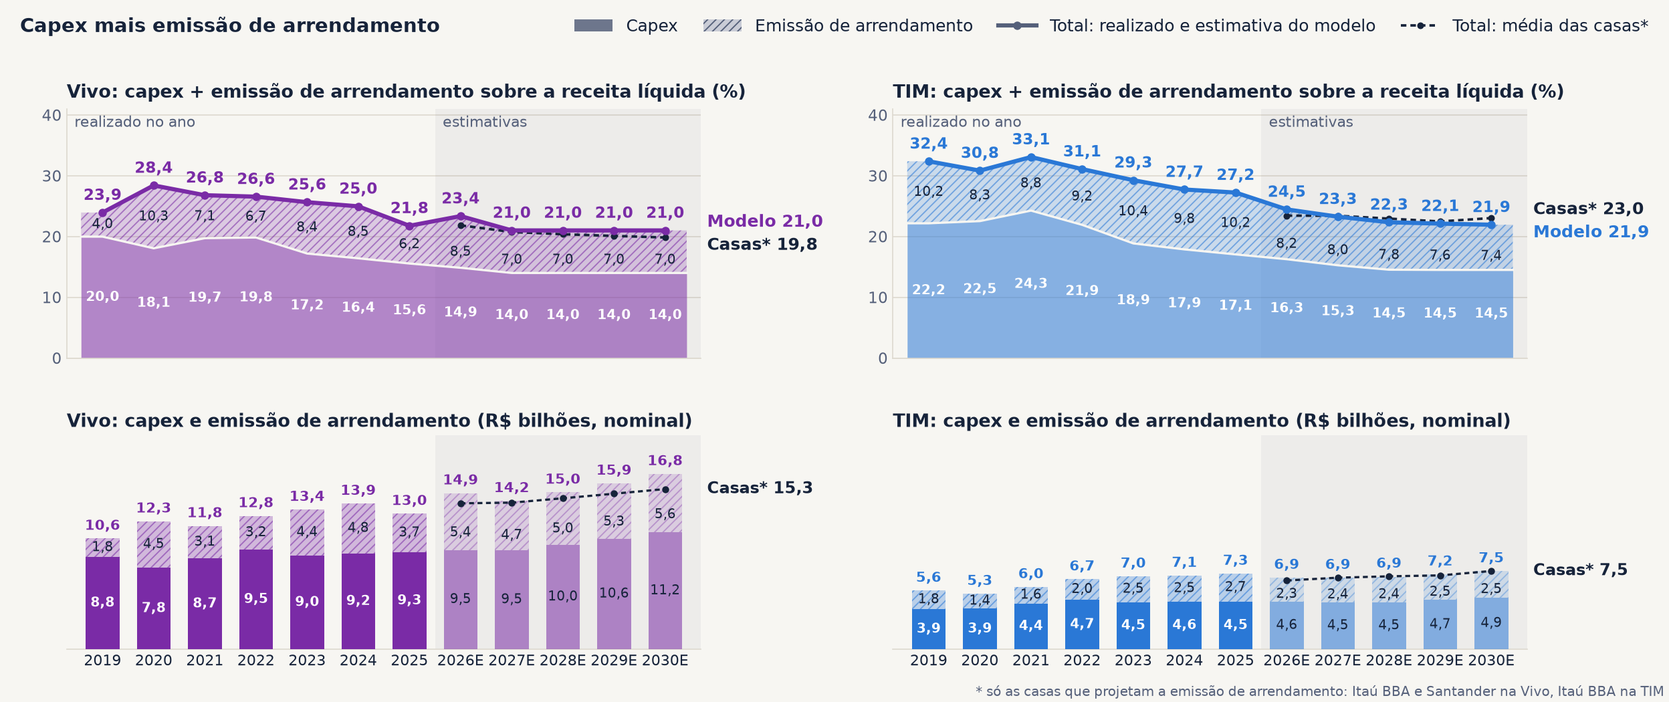
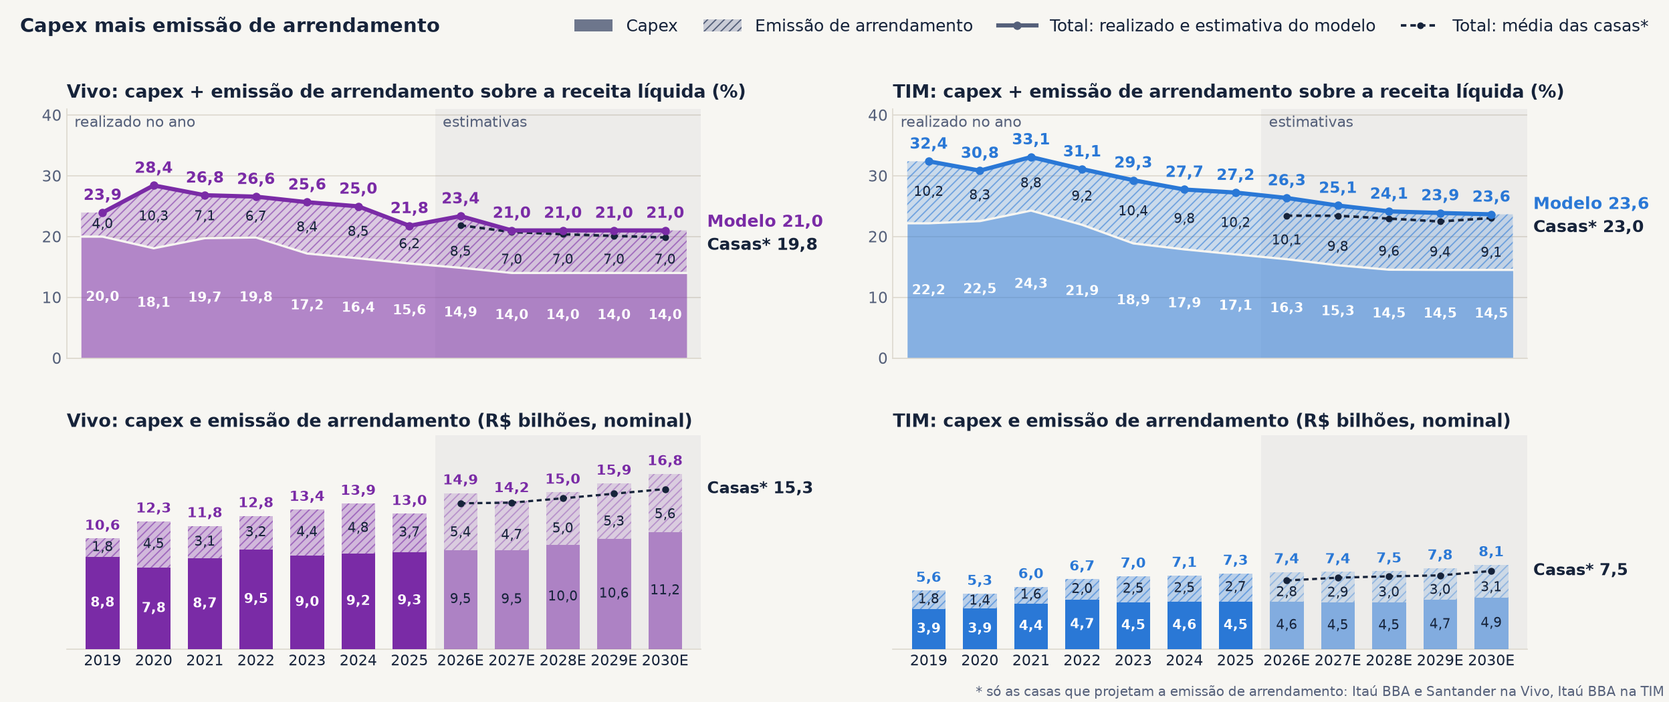
v5.6 - 24/11/2026 22:50 - slides 11 a 14 com o TimMOD v10; casas no slide 14
Emissao de arrendamento da TIM em 2026E de volta a 2,8 bi, +2,5% ao ano depois
(TimMOD v10). Slide 14 ganha as casas que projetam a emissao e a pergunta de
quanto tempo a depreciacao pode ficar acima do investimento.

Changed region(s): [[0.75, 0.2438, 1.0, 0.3657], [0.75, 0.7924, 0.9062, 0.8533]]

diff --git a/index.html b/index.html
@@ -40,7 +40,7 @@ h1, h2, h3 { font-family:'Space Grotesk', Arial, sans-serif; }
 <div id="palco">
 <section id="capa" class="capa" data-transition="fade">
 <div>
-<p class="chip">v5.5 · 24/11/2026 22:40</p>
+<p class="chip">v5.6 · 24/11/2026 22:50</p>
 </div>
 <div>
 <h1>Telecom Brasil: Vivo e TIM</h1>
@@ -113,31 +113,31 @@ h1, h2, h3 { font-family:'Space Grotesk', Arial, sans-serif; }
 </section>
 <section id="capex-emis" data-transition="fade">
 <p class="olho">4 · CAPEX MAIS EMISSÃO DE ARRENDAMENTO: MODELO CONTRA AS CASAS</p>
-<h2 class="titulo">Com a emissão de arrendamento, o investimento é 21,8% da receita na Vivo e 27,2% na TIM em 2025; o modelo vai a 21,0% e 21,9%, perto das casas</h2>
+<h2 class="titulo">Com a emissão de arrendamento, o investimento é 21,8% da receita na Vivo e 27,2% na TIM em 2025; o modelo vai a 21,0% e 23,6%, perto das casas</h2>
 <img class="graf" src="img/v7b_capex_emissao.png" alt="Quatro gráficos de 2019 a 2030 estimado, Vivo e TIM na mesma escala. Em cima, capex e emissão de arrendamento sobre a receita líquida, empilhados, com a linha do total, a estimativa do modelo e a média das casas que projetam a emissão. Embaixo, capex e emissão de arrendamento em bilhões de reais nominais, em barras empilhadas, com o total em cima de cada barra e a média das mesmas casas">
 <p class="fonte">Fonte: planilhas de RI e modelos de 24/11/2026. Capex sem licenças; emissão = adições de arrendamento do ano (IFRS 16, desde 2019). Casas*: só as que projetam a emissão (Itaú BBA e Santander na Vivo, Itaú BBA na TIM).</p>
-<aside>Capex mais emissão de arrendamento sobre a receita. Vivo: 23,9% em 2019, 28,4% em 2020, 26,8% em 2021, 26,6% em 2022, 25,6% em 2023, 25,0% em 2024 e 21,8% em 2025; a emissão sozinha foi 4,0%, 10,3%, 7,1%, 6,7%, 8,4%, 8,5% e 6,2% da receita, e 9,2% nos 12 meses até o 3T26. Em reais: de R$ 10,6 bilhões em 2019 para R$ 13,9 bilhões em 2024 e R$ 13,0 bilhões em 2025, com a emissão indo de R$ 1,8 bilhão para R$ 4,8 bilhões e R$ 3,7 bilhões. Premissa de 24/11/2026: em 2026E a emissão fica em R$ 5,4 bilhões, 8,5% da receita (os nove meses somam R$ 3,65 bilhões, com R$ 2,4 bilhões no 3T26, e o 4T26 entra com R$ 1,8 bilhão; os três últimos quartos trimestres foram de cerca de R$ 2,2 bilhões cada), e cai para 7,0% da receita de 2027E em diante (antes 8,5%). Total de 23,4% em 2026E e 21,0% de 2027E a 2030E; em reais, R$ 14,9 bilhões em 2026E, R$ 14,2 bilhões em 2027E e R$ 16,8 bilhões em 2030E. As duas casas que projetam a emissão (Itaú BBA e Santander) ficam em 21,8%, 20,7%, 20,4%, 20,1% e 19,8% na média, com emissão perto de 6% da receita e total de R$ 15,3 bilhões em 2030E; o modelo fica 1,2 ponto e R$ 1,5 bilhão acima em 2030E. TIM: 32,4% em 2019, 30,8% em 2020, 33,1% em 2021, 31,1% em 2022, 29,3% em 2023, 27,7% em 2024 e 27,2% em 2025; a emissão foi 10,2%, 8,3%, 8,8%, 9,2%, 10,4%, 9,8% e 10,2% da receita. Em reais: de R$ 5,6 bilhões em 2019 para R$ 7,3 bilhões em 2025, com a emissão indo de R$ 1,8 bilhão para R$ 2,7 bilhões. Premissa nova de 24/11/2026: emissão de R$ 2,3 bilhões em 2026E (os nove meses somam R$ 1,66 bilhão; 4T26 de R$ 0,64 bilhão, igual ao 4T25) e crescimento de 2,5% ao ano depois, metade do ritmo da receita (antes crescia com a receita móvel). A emissão cai de 10,2% da receita em 2025 para 8,2% em 2026E e 7,4% em 2030E; total de 24,5% em 2026E, 23,3% em 2027E e 21,9% em 2030E, com R$ 6,9 bilhões parados de 2026E a 2028E e R$ 7,5 bilhões em 2030E. O Itaú BBA, única casa que projeta a emissão da TIM, fica em 23,4%, 23,4%, 22,9%, 22,5% e 23,0%, com emissão de 7,5% da receita e total de R$ 7,5 bilhões em 2030E; o modelo fica 1,1 ponto abaixo em 2030E (capex 1,1 ponto menor, emissão igual) e igual em reais, porque a receita do modelo é maior. Leitura: de 2019 a 2025 o capex sobre a receita caiu 4,4 pontos na Vivo e 5,1 na TIM, mas o total com arrendamento caiu 2,1 e 5,2 pontos; na Vivo, metade da queda do capex foi trocada por arrendamento, e nos 12 meses até o 3T26 o total (24,4%) está acima de 2019. A emissão é volátil de um ano para o outro, mistura contrato novo com renovação e reajuste e não pega contrato de serviço; vale mais a média de alguns anos que o ano isolado (Vivo 2021 a 2025: 7,4% da receita; TIM: 9,7%).</aside>
+<aside>Capex mais emissão de arrendamento sobre a receita. Vivo: 23,9% em 2019, 28,4% em 2020, 26,8% em 2021, 26,6% em 2022, 25,6% em 2023, 25,0% em 2024 e 21,8% em 2025; a emissão sozinha foi 4,0%, 10,3%, 7,1%, 6,7%, 8,4%, 8,5% e 6,2% da receita, e 9,2% nos 12 meses até o 3T26. Em reais: de R$ 10,6 bilhões em 2019 para R$ 13,9 bilhões em 2024 e R$ 13,0 bilhões em 2025, com a emissão indo de R$ 1,8 bilhão para R$ 4,8 bilhões e R$ 3,7 bilhões. Premissa de 24/11/2026: em 2026E a emissão fica em R$ 5,4 bilhões, 8,5% da receita (os nove meses somam R$ 3,65 bilhões, com R$ 2,4 bilhões no 3T26, e o 4T26 entra com R$ 1,8 bilhão; os três últimos quartos trimestres foram de cerca de R$ 2,2 bilhões cada), e cai para 7,0% da receita de 2027E em diante (antes 8,5%). Total de 23,4% em 2026E e 21,0% de 2027E a 2030E; em reais, R$ 14,9 bilhões em 2026E, R$ 14,2 bilhões em 2027E e R$ 16,8 bilhões em 2030E. As duas casas que projetam a emissão (Itaú BBA e Santander) ficam em 21,8%, 20,7%, 20,4%, 20,1% e 19,8% na média, com emissão perto de 6% da receita e total de R$ 15,3 bilhões em 2030E; o modelo fica 1,2 ponto e R$ 1,5 bilhão acima em 2030E. TIM: 32,4% em 2019, 30,8% em 2020, 33,1% em 2021, 31,1% em 2022, 29,3% em 2023, 27,7% em 2024 e 27,2% em 2025; a emissão foi 10,2%, 8,3%, 8,8%, 9,2%, 10,4%, 9,8% e 10,2% da receita. Em reais: de R$ 5,6 bilhões em 2019 para R$ 7,3 bilhões em 2025, com a emissão indo de R$ 1,8 bilhão para R$ 2,7 bilhões. Premissa de 24/11/2026: emissão de R$ 2,8 bilhões em 2026E, 10,1% da receita (os nove meses somam R$ 1,66 bilhão e o 4T26 entra com R$ 1,17 bilhão, acima dos R$ 0,4 a 0,7 bilhão dos três últimos quartos trimestres), e crescimento de 2,5% ao ano depois, metade do ritmo da receita (antes crescia com a receita móvel). A emissão cai de 10,1% da receita em 2026E para 9,8% em 2027E e 9,1% em 2030E; total de 26,3% em 2026E, 25,1% em 2027E e 23,6% em 2030E, de R$ 7,4 bilhões para R$ 8,1 bilhões. O Itaú BBA, única casa que projeta a emissão da TIM, fica em 23,4%, 23,4%, 22,9%, 22,5% e 23,0%, com emissão de 7,5% da receita e total de R$ 7,5 bilhões em 2030E; o modelo fica 0,6 ponto acima em 2030E (capex 1,1 ponto menor, emissão 1,6 ponto maior) e R$ 0,6 bilhão acima em reais. Leitura: de 2019 a 2025 o capex sobre a receita caiu 4,4 pontos na Vivo e 5,1 na TIM, mas o total com arrendamento caiu 2,1 e 5,2 pontos; na Vivo, metade da queda do capex foi trocada por arrendamento, e nos 12 meses até o 3T26 o total (24,4%) está acima de 2019. A emissão é volátil de um ano para o outro, mistura contrato novo com renovação e reajuste e não pega contrato de serviço; vale mais a média de alguns anos que o ano isolado (Vivo 2021 a 2025: 7,4% da receita; TIM: 9,7%).</aside>
 </section>
 <section id="pares-qualidade" data-transition="fade">
 <p class="olho">4 · INVESTIMENTO CONTRA OS PARES DE FORA E QUALIDADE DA REDE NO BRASIL</p>
 <h2 class="titulo">Vivo e TIM investem acima dos pares de fora (21,8% e 27,2% da receita contra 19,1%) e a rede melhora: 4G de 12-21 para 24-27 Mbps desde 2022</h2>
 <img class="graf" src="img/v8_pares_qualidade.png" alt="À esquerda, capex e capex mais adições de arrendamento sobre a receita no último ano fiscal de dezesseis operadoras de fora, com a mediana, contra Vivo e TIM em 2025 e na estimativa do modelo para 2030. À direita, quatro gráficos da Anatel: download 4G medido, em Mbps, e cumprimento da velocidade contratada, em percentual, de 2022 a 2026 para Vivo, TIM e Claro; tráfego de dados do setor em bilhões de GB de 2019 a 2025 e no primeiro semestre de 2025 e de 2026; e a nota de qualidade de 2025 das três operadoras">
 <p class="fonte">Fonte: relatórios das companhias (levantamento de 18/11/2026, último ano fiscal), dados abertos da Anatel e modelos de 24/11/2026. Download 4G e cumprimento de velocidade: resultado dos municípios ponderado pelos acessos.</p>
-<aside>Pares de fora, capex sem espectro e capex mais adições de arrendamento sobre a receita, 2025 ou último ano fiscal: América Móvil 12,1% e 13,8%; Verizon 12,3% e 15,7%; T-Mobile US 11,3% e 15,8%; China Mobile 14,4% e 17,7%; Orange 15,4% e 17,9%; Deutsche Telekom (grupo, com os Estados Unidos) 14,2% e 18,0%; TIM Itália sem a rede fixa 13,9% e 18,2%; Telenor 13,8% e 18,7%; Telefónica 12,4% e 19,4%; Telstra 16,3% e 19,6%; A1 14,0% e 19,7%; AT&amp;T 16,6% e 21,0%; Rogers 17,1% e 21,1%; KPN 21,7% e 22,4%; Vodafone 18,0% e 27,5%; Bharti Airtel 22,5% e 28,2%. Mediana de 14,3% no capex e 19,1% no total. Brasil: Vivo 15,6% e 21,8% em 2025; TIM 17,1% e 27,2%. O capex fica 1 a 3 pontos acima da mediana; o que afasta o Brasil é o arrendamento, 6% a 10% da receita contra 3% a 7% lá fora. Modelo em 2030E: Vivo 14,0% e 21,0%; TIM 14,5% e 21,9%, ou seja, 2 a 3 pontos acima da mediana de hoje, na altura de AT&amp;T e Rogers. A adição de arrendamento oscila de um ano para o outro: na média de três anos a mediana dos pares é a mesma (19,1%), a Vivo fica em 24,1% e a TIM em 28,1%. Fora da amostra: Millicom e Swisscom, com 2025 distorcido por adições fora do padrão, e a Claro, que só tem o arrendamento pago na CVM (26,3% da receita com o capex em 2025). Qualidade da rede, Anatel, 2022 a 2026 (janeiro a setembro). Download 4G medido: Vivo 15,4, 17,7, 23,0, 25,7 e 26,9 Mbps; TIM 12,3, 14,2, 16,0, 19,7 e 23,6; Claro 21,2, 19,0, 22,4, 24,1 e 26,5. Cumprimento da velocidade contratada (indicador 4 do regulamento de qualidade): Vivo de 81,7% para 88,2%; TIM de 82,5% para 89,6%; Claro de 88,5% para 91,8%; a referência do indicador mudou em 2025 e o número recua cerca de 1 ponto no 1T25 nas três. No mesmo período o capex alocado ao móvel pelo setor caiu de 17,1% para 13,9% da receita (base de indicadores econômicos da Anatel, pode incluir licenças). Estações licenciadas: Vivo de 30,2 mil para 39,2 mil, TIM de 26,9 mil para 37,2 mil, Claro de 23,0 mil para 32,9 mil. Leitura: não há sinal de perda de qualidade com o capex caindo, o que sustenta o investimento menor dos modelos. Pontos de atenção: a nota de qualidade de 2025, único ano publicado, é 93 na Claro (selo B), 90 na Vivo (B) e 86 na TIM (C), e a latência da TIM piora desde 2024 (cumprimento de 91,4% para 88,7%); a TIM é a que tem a menor nota e é onde o modelo mais corta o investimento. Tráfego de dados do setor (a Anatel não abre por operadora): 4,5 bilhões de GB em 2019, 6,5 em 2020, 7,5 em 2021, 11,8 em 2022, 13,7 em 2023, 14,4 em 2024 e 14,7 em 2025, ou seja, quase parado por três anos; no primeiro semestre de 2026 foram 8,5 bilhões contra 7,0 um ano antes (+22%), com o trimestre subindo de 3,4 bilhões no 1T25 para 4,4 no 2T26. É o número a acompanhar: a folga de rede que o slide mostra foi construída com tráfego parado. O upload do 5G cai nas três desde 2023. Não há comparação de qualidade com os pares de fora neste slide: a evidência é a tendência local. As definições de capex e de arrendamento variam entre companhias.</aside>
+<aside>Pares de fora, capex sem espectro e capex mais adições de arrendamento sobre a receita, 2025 ou último ano fiscal: América Móvil 12,1% e 13,8%; Verizon 12,3% e 15,7%; T-Mobile US 11,3% e 15,8%; China Mobile 14,4% e 17,7%; Orange 15,4% e 17,9%; Deutsche Telekom (grupo, com os Estados Unidos) 14,2% e 18,0%; TIM Itália sem a rede fixa 13,9% e 18,2%; Telenor 13,8% e 18,7%; Telefónica 12,4% e 19,4%; Telstra 16,3% e 19,6%; A1 14,0% e 19,7%; AT&amp;T 16,6% e 21,0%; Rogers 17,1% e 21,1%; KPN 21,7% e 22,4%; Vodafone 18,0% e 27,5%; Bharti Airtel 22,5% e 28,2%. Mediana de 14,3% no capex e 19,1% no total. Brasil: Vivo 15,6% e 21,8% em 2025; TIM 17,1% e 27,2%. O capex fica 1 a 3 pontos acima da mediana; o que afasta o Brasil é o arrendamento, 6% a 10% da receita contra 3% a 7% lá fora. Modelo em 2030E: Vivo 14,0% e 21,0%; TIM 14,5% e 23,6%, ou seja, 2 a 4,5 pontos acima da mediana de hoje, entre AT&amp;T e KPN. A adição de arrendamento oscila de um ano para o outro: na média de três anos a mediana dos pares é a mesma (19,1%), a Vivo fica em 24,1% e a TIM em 28,1%. Fora da amostra: Millicom e Swisscom, com 2025 distorcido por adições fora do padrão, e a Claro, que só tem o arrendamento pago na CVM (26,3% da receita com o capex em 2025). Qualidade da rede, Anatel, 2022 a 2026 (janeiro a setembro). Download 4G medido: Vivo 15,4, 17,7, 23,0, 25,7 e 26,9 Mbps; TIM 12,3, 14,2, 16,0, 19,7 e 23,6; Claro 21,2, 19,0, 22,4, 24,1 e 26,5. Cumprimento da velocidade contratada (indicador 4 do regulamento de qualidade): Vivo de 81,7% para 88,2%; TIM de 82,5% para 89,6%; Claro de 88,5% para 91,8%; a referência do indicador mudou em 2025 e o número recua cerca de 1 ponto no 1T25 nas três. No mesmo período o capex alocado ao móvel pelo setor caiu de 17,1% para 13,9% da receita (base de indicadores econômicos da Anatel, pode incluir licenças). Estações licenciadas: Vivo de 30,2 mil para 39,2 mil, TIM de 26,9 mil para 37,2 mil, Claro de 23,0 mil para 32,9 mil. Leitura: não há sinal de perda de qualidade com o capex caindo, o que sustenta o investimento menor dos modelos. Pontos de atenção: a nota de qualidade de 2025, único ano publicado, é 93 na Claro (selo B), 90 na Vivo (B) e 86 na TIM (C), e a latência da TIM piora desde 2024 (cumprimento de 91,4% para 88,7%); a TIM é a que tem a menor nota e é onde o modelo mais corta o investimento. Tráfego de dados do setor (a Anatel não abre por operadora): 4,5 bilhões de GB em 2019, 6,5 em 2020, 7,5 em 2021, 11,8 em 2022, 13,7 em 2023, 14,4 em 2024 e 14,7 em 2025, ou seja, quase parado por três anos; no primeiro semestre de 2026 foram 8,5 bilhões contra 7,0 um ano antes (+22%), com o trimestre subindo de 3,4 bilhões no 1T25 para 4,4 no 2T26. É o número a acompanhar: a folga de rede que o slide mostra foi construída com tráfego parado. O upload do 5G cai nas três desde 2023. Não há comparação de qualidade com os pares de fora neste slide: a evidência é a tendência local. As definições de capex e de arrendamento variam entre companhias.</aside>
 </section>
 <section id="da-receita" data-transition="fade">
 <p class="olho">4 · DEPRECIAÇÃO E ARRENDAMENTO PAGO SOBRE A RECEITA</p>
-<h2 class="titulo">D&amp;A cai de 25,1% para 19,0% da receita na Vivo e de 26,6% para 18,3% na TIM até 2030E; na TIM o modelo fica 3 pontos abaixo das casas</h2>
+<h2 class="titulo">D&amp;A cai de 25,1% para 19,0% da receita na Vivo e de 26,6% para 20,0% na TIM até 2030E; na TIM o modelo fica 1,5 ponto abaixo das casas</h2>
 <img class="graf" src="img/v9_da_receita.png" alt="Dois gráficos na mesma escala, um da Vivo e um da TIM, de 2019 a 2030 estimado, com duas linhas sobre a receita líquida: a depreciação e amortização total, com a estimativa do modelo, a média e a faixa das casas, e o arrendamento pago (principal mais juros), com a estimativa do modelo">
 <p class="fonte">Fonte: planilhas de RI e modelos de 24/11/2026. D&amp;A total, com a depreciação do direito de uso e a amortização de licenças. Arrendamento pago = principal + juros. Casas: Itaú BBA, BBI, BTG, Santander e, na Vivo, UBS. UBS só até 2028E.</p>
-<aside>Depreciação e amortização total sobre a receita. Vivo: 24,7% em 2019, 26,0% em 2020, 27,3% em 2021, 26,4% em 2022, 25,7% em 2023, 25,4% em 2024 e 25,1% em 2025 (R$ 14,9 bilhões). Modelo: 23,6% em 2026E, 21,6% em 2027E, 20,5% em 2028E, 19,6% em 2029E e 19,0% em 2030E, com a D&amp;A parada perto de R$ 15 bilhões e a receita crescendo. Casas: média de 23,9%, 22,3%, 21,3%, 20,5% e 19,9%, com faixa de 18,9% a 20,5% em 2030E; o modelo fica 0,9 ponto abaixo da média em 2030E, dentro da faixa. Composição da D&amp;A da Vivo em 2025: imobilizado R$ 7,3 bilhões, direito de uso R$ 3,7 bilhões, outros intangíveis R$ 2,6 bilhões e licenças R$ 1,3 bilhão; a depreciação acelerada do cobre e dos legados (R$ 0,3 bilhão por trimestre desde o 3T24) termina em 2026. TIM: 29,5% em 2019, 32,0% em 2020, 31,5% em 2021, 31,6% em 2022, 29,8% em 2023, 27,6% em 2024 e 26,6% em 2025 (R$ 7,1 bilhões). Modelo: 25,8% em 2026E, 21,9% em 2027E, 20,4% em 2028E, 19,7% em 2029E e 18,3% em 2030E; a D&amp;A cai de R$ 7,3 bilhões em 2026E para R$ 6,5 bilhões em 2027E (-11% em um ano) e R$ 6,3 bilhões em 2030E. Casas: média de 25,5%, 24,4%, 23,3%, 22,5% e 21,5%, com faixa de 20,5% a 22,4% em 2030E; o modelo fica abaixo da casa mais baixa de 2027E em diante e 3,2 pontos abaixo da média em 2030E, cerca de R$ 1,1 bilhão de lucro antes do imposto. É a premissa a revisar no modelo da TIM. Arrendamento pago (principal mais juros) sobre a receita. Vivo: 4,5% em 2019, 7,9% em 2020, 7,4% em 2021, 8,8% em 2022, 8,1% em 2023, 8,4% em 2024 e 8,5% em 2025 (R$ 5,1 bilhões); modelo em 8,7% em 2026E, 8,9% em 2027E e 8,6% em 2030E. TIM: 9,3% em 2019, 9,8% em 2020, 11,2% em 2021, 13,4% em 2022 (torres da Oi), 12,0% em 2023, 12,9% em 2024 e 11,9% em 2025 (R$ 3,2 bilhões); modelo em 12,1% em 2026E, 13,0% em 2028E, 13,2% em 2029E e 12,7% em 2030E, mesmo com a emissão menor, porque a taxa de amortização do passivo sobe ano a ano no modelo. As duas linhas não se somam: a D&amp;A já tem a depreciação do direito de uso, que é a contrapartida contábil do principal pago, e os juros do arrendamento estão no resultado financeiro. O arrendamento pago é a medida de caixa; a D&amp;A, a de resultado.</aside>
+<aside>Depreciação e amortização total sobre a receita. Vivo: 24,7% em 2019, 26,0% em 2020, 27,3% em 2021, 26,4% em 2022, 25,7% em 2023, 25,4% em 2024 e 25,1% em 2025 (R$ 14,9 bilhões). Modelo: 23,6% em 2026E, 21,6% em 2027E, 20,5% em 2028E, 19,6% em 2029E e 19,0% em 2030E, com a D&amp;A parada perto de R$ 15 bilhões e a receita crescendo. Casas: média de 23,9%, 22,3%, 21,3%, 20,5% e 19,9%, com faixa de 18,9% a 20,5% em 2030E; o modelo fica 0,9 ponto abaixo da média em 2030E, dentro da faixa. Composição da D&amp;A da Vivo em 2025: imobilizado R$ 7,3 bilhões, direito de uso R$ 3,7 bilhões, outros intangíveis R$ 2,6 bilhões e licenças R$ 1,3 bilhão; a depreciação acelerada do cobre e dos legados (R$ 0,3 bilhão por trimestre do 3T24 ao 2T26) termina em 2026. TIM: 29,5% em 2019, 32,0% em 2020, 31,5% em 2021, 31,6% em 2022, 29,8% em 2023, 27,6% em 2024 e 26,6% em 2025 (R$ 7,1 bilhões). Modelo: 25,9% em 2026E, 23,8% em 2027E, 22,2% em 2028E, 21,4% em 2029E e 20,0% em 2030E; a D&amp;A vai de R$ 7,3 bilhões em 2026E para R$ 7,0 bilhões em 2027E e R$ 6,8 bilhões em 2030E. Casas: média de 25,5%, 24,4%, 23,3%, 22,5% e 21,5%, com faixa de 20,5% a 22,4% em 2030E; o modelo fica dentro da faixa em 2027E, no piso em 2028E e 0,5 ponto abaixo da casa mais baixa em 2030E, 1,5 ponto abaixo da média, cerca de R$ 0,5 bilhão de lucro antes do imposto. No modelo da TIM a D&amp;A é um percentual do ativo permanente, que inclui a emissão de arrendamento: com a emissão de 2026E de volta a R$ 2,8 bilhões, a D&amp;A projetada subiu. Arrendamento pago (principal mais juros) sobre a receita. Vivo: 4,5% em 2019, 7,9% em 2020, 7,4% em 2021, 8,8% em 2022, 8,1% em 2023, 8,4% em 2024 e 8,5% em 2025 (R$ 5,1 bilhões); modelo em 8,7% em 2026E, 8,9% em 2027E e 8,6% em 2030E. TIM: 9,3% em 2019, 9,8% em 2020, 11,2% em 2021, 13,4% em 2022 (torres da Oi), 12,0% em 2023, 12,9% em 2024 e 11,9% em 2025 (R$ 3,2 bilhões); modelo em 12,1% em 2026E, 13,2% em 2027E, 14,0% em 2028E, 14,6% em 2029E e 14,3% em 2030E, porque a taxa de amortização do passivo sobe ano a ano no modelo. As duas linhas não se somam: a D&amp;A já tem a depreciação do direito de uso, que é a contrapartida contábil do principal pago, e os juros do arrendamento estão no resultado financeiro. O arrendamento pago é a medida de caixa; a D&amp;A, a de resultado.</aside>
 </section>
 <section id="da-capex" data-transition="fade">
 <p class="olho">4 · INVESTIMENTO TOTAL CONTRA DEPRECIAÇÃO TOTAL</p>
-<h2 class="titulo">Investimento empata com a depreciação desde 2019: Vivo -R$ 1,7 bi em sete anos (+R$ 0,1 bi sem a depreciação acelerada do cobre) e TIM +R$ 0,5 bi</h2>
-<img class="graf" src="img/v9b_da_capex.png" alt="Quatro gráficos de 2019 a 2030 estimado, Vivo e TIM na mesma escala. Em cima, o investimento total (capex mais emissão de arrendamento) e a depreciação e amortização total sobre a receita líquida, com a área entre as linhas em verde quando o investimento é maior e em ocre quando a depreciação é maior. Embaixo, a diferença em bilhões de reais por ano, em barras, com a soma de 2019 a 2025 e de 2026 a 2030; na Vivo, losangos marcam a diferença sem a depreciação acelerada do cobre em 2024, 2025 e 2026">
-<p class="fonte">Fonte: planilhas de RI e modelos de 24/11/2026. Investimento total = capex sem licenças + emissão de arrendamento. D&amp;A total inclui a amortização de licenças (Vivo: R$ 0,9 a 1,5 bilhão por ano), o que pesa contra o investimento.</p>
-<aside>Pergunta do slide: as companhias constroem ou consomem o ativo (imobilizado mais direito de uso)? A conta compara o que entra, capex sem licenças mais emissão de arrendamento, com o que sai pela depreciação e amortização total; as duas medidas são de competência. O arrendamento pago não entra aqui: ele reduz o passivo, não o ativo, e a sua contrapartida contábil, a depreciação do direito de uso, já está na D&amp;A. Vivo, investimento menos D&amp;A em R$ bilhões: -0,3 em 2019, +1,0 em 2020, -0,2 em 2021, +0,1 em 2022, zero em 2023, -0,3 em 2024 e -2,0 em 2025, soma de -1,7 em sete anos; a relação D&amp;A sobre investimento fica entre 0,92 e 1,03 de 2019 a 2024 e vai a 1,15 em 2025, ano de emissão baixa e de depreciação acelerada do cobre. Modelo: -0,2 em 2026E, -0,4 em 2027E, +0,4 em 2028E, +1,0 em 2029E e +1,6 em 2030E, soma de +2,5. Cobre: a Vivo depreciou de forma acelerada as tecnologias legadas, incluindo os ativos de cobre, do 3T24 ao 2T26, com impacto aproximado de R$ 0,3 bilhão por trimestre (release do 2T26), ou R$ 0,6 bilhão em 2024, R$ 1,2 bilhão em 2025 e R$ 0,6 bilhão em 2026, R$ 2,4 bilhões no total. Sem isso a D&amp;A seria 24,4% da receita em 2024 (contra 25,4%), 23,1% em 2025 (contra 25,1%) e 22,7% em 2026E (contra 23,6%), e a diferença entre investimento e depreciação seria +0,3 em 2024, -0,8 em 2025 e +0,4 em 2026E; a soma de 2019 a 2025 passa de -1,7 para +0,1 e a de 2026E a 2030E de +2,5 para +3,1. O cobre explica R$ 1,2 bilhão dos R$ 2,0 bilhões de 2025; o resto é a emissão de arrendamento mais baixa do ano. TIM: +0,5 em 2019, -0,2 em 2020, +0,3 em 2021, -0,1 em 2022 e em 2023, zero em 2024 e +0,2 em 2025, soma de +0,5; relação entre 0,91 e 1,04. Modelo: -0,4 em 2026E, +0,4 em 2027E, +0,6 em 2028E, +0,8 em 2029E e +1,2 em 2030E, soma de +2,6. Leitura do realizado: empate, nem constroem nem consomem em reais nominais; com a inflação do período, a base encolhe em termos reais. No balanço da Vivo, imobilizado mais direito de uso vai de R$ 42,8 bilhões em 2019 para R$ 47,4 bilhões em 2025, alta nominal de 11% em seis anos. Leitura do modelo: as duas passam a construir ativo com o investimento caindo sobre a receita, porque a D&amp;A cai mais rápido (Vivo de 25,1% para 19,0% da receita; TIM de 26,6% para 18,3%). Na Vivo parte disso é o fim da depreciação acelerada do cobre; na TIM a D&amp;A do modelo fica abaixo de todas as casas de 2027E em diante. Ressalvas: a D&amp;A inclui a amortização de licenças e o investimento não inclui as licenças compradas; tirando a amortização de licenças da Vivo (R$ 8,4 bilhões de 2019 a 2025), a soma do período passa de -R$ 1,7 bilhão para +R$ 6,7 bilhões. A abertura equivalente da TIM não está no modelo. A emissão de arrendamento mistura contrato novo com renovação e reajuste.</aside>
+<h2 class="titulo">Investimento empata com a depreciação desde 2019 e as casas põem a D&amp;A acima do investimento até 2029: por quanto tempo dá para consumir ativo?</h2>
+<img class="graf" src="img/v9b_da_capex.png" alt="Quatro gráficos de 2019 a 2030 estimado, Vivo e TIM na mesma escala. Em cima, o investimento total (capex mais emissão de arrendamento) e a depreciação e amortização total sobre a receita líquida, com a área entre as linhas em verde quando o investimento é maior e em ocre quando a depreciação é maior. Embaixo, a diferença em bilhões de reais por ano, em barras, com a soma de 2019 a 2025 e de 2026 a 2030; na Vivo, losangos marcam a diferença sem a depreciação acelerada do cobre em 2024, 2025 e 2026; linhas finas mostram a mesma diferença nas casas que projetam a emissão de arrendamento">
+<p class="fonte">Fonte: planilhas de RI e modelos de 24/11/2026. Investimento total = capex sem licenças + emissão de arrendamento. D&amp;A total inclui a amortização de licenças. Casas: só as que projetam a emissão (Itaú BBA e Santander na Vivo, Itaú BBA na TIM).</p>
+<aside>Pergunta do slide: as companhias constroem ou consomem o ativo (imobilizado mais direito de uso), e por quanto tempo dá para ficar com a depreciação acima do investimento? A conta compara o que entra, capex sem licenças mais emissão de arrendamento, com o que sai pela depreciação e amortização total; as duas medidas são de competência. O arrendamento pago não entra aqui: ele reduz o passivo, não o ativo, e a sua contrapartida contábil, a depreciação do direito de uso, já está na D&amp;A. Vivo, investimento menos D&amp;A em R$ bilhões: -0,3 em 2019, +1,0 em 2020, -0,2 em 2021, +0,1 em 2022, zero em 2023, -0,3 em 2024 e -2,0 em 2025, soma de -1,7 em sete anos; a relação D&amp;A sobre investimento fica entre 0,92 e 1,03 de 2019 a 2024 e vai a 1,15 em 2025. Modelo: -0,2 em 2026E, -0,4 em 2027E, +0,4 em 2028E, +1,0 em 2029E e +1,6 em 2030E, soma de +2,5. Cobre: a Vivo depreciou de forma acelerada as tecnologias legadas, incluindo os ativos de cobre, do 3T24 ao 2T26, com impacto aproximado de R$ 0,3 bilhão por trimestre (release do 2T26), ou R$ 0,6 bilhão em 2024, R$ 1,2 bilhão em 2025 e R$ 0,6 bilhão em 2026. Sem isso a D&amp;A seria 24,4% da receita em 2024, 23,1% em 2025 e 22,7% em 2026E, e a diferença seria +0,3 em 2024, -0,8 em 2025 e +0,4 em 2026E; a soma de 2019 a 2025 passa de -1,7 para +0,1 e a de 2026E a 2030E de +2,5 para +3,1. TIM: +0,5 em 2019, -0,2 em 2020, +0,3 em 2021, -0,1 em 2022 e em 2023, zero em 2024 e +0,2 em 2025, soma de +0,5; relação entre 0,91 e 1,04. Modelo: +0,1 em 2026E, +0,4 em 2027E, +0,6 em 2028E, +0,8 em 2029E e +1,2 em 2030E, soma de +3,2. Casas que projetam a emissão de arrendamento, mesma conta com os números delas. Vivo no Itaú BBA: -1,6 em 2026E, -1,4 em 2027E, -1,0 em 2028E, -0,6 em 2029E e -0,4 em 2030E, soma de -5,0. Vivo no Santander: -1,0, -1,3, -0,7, zero e zero, soma de -3,0. TIM no Itaú BBA: -0,7, -0,4, -0,2, -0,1 e +0,4, soma de -1,0. As outras casas não projetam a emissão; nelas a D&amp;A fica 5,3 a 9,5 pontos da receita acima do capex, mais do que a emissão que as casas acima usam (cerca de 6% da receita na Vivo e 7,5% na TIM). A provocação: no realizado as duas empatam há sete anos, e as casas estendem a depreciação acima do investimento até 2029; somando os dois períodos, seriam mais de dez anos sem aumentar o ativo em reais nominais, com inflação no caminho. Ou a rede aguenta com menos ativo (o slide de qualidade diz que até aqui aguentou), ou o capex volta a subir, ou a D&amp;A cai mais rápido do que as casas projetam, que é o que os modelos de Vivo e TIM assumem. Ressalvas: a D&amp;A inclui a amortização de licenças e o investimento não inclui as licenças compradas. Na Vivo a amortização de licenças é de cerca de R$ 1,25 bilhão por ano (R$ 8,4 bilhões de 2019 a 2025; R$ 6,3 bilhões de 2026E a 2030E no modelo): sem ela, a soma realizada da Vivo passa de -1,7 para +6,7 e a das casas de -5,0 para cerca de +1,2 (Itaú BBA) e de -3,0 para +3,2 (Santander), usando a amortização do modelo, porque as casas não abrem a delas. Quando o investimento cai sobre a receita, a D&amp;A demora a acompanhar, porque reflete o capex maior dos anos anteriores; D&amp;A acima do investimento por alguns anos é o esperado. A emissão de arrendamento mistura contrato novo com renovação e reajuste.</aside>
 </section>
 <section id="lucro-frente" data-transition="fade">
 <p class="olho">5 · LUCRO LÍQUIDO PARA FRENTE</p>

diff --git a/README.md b/README.md
@@ -1,3 +1,3 @@
 # Telecom Brasil: Vivo e TIM
 
-Deck de telecom (v5.5 · 24/11/2026 22:40): o setor contra a inflação e o PIB, receita, margem, EBITDA, capex e arrendamento, lucro, payout, Fistel e valuation de Vivo e TIM.
+Deck de telecom (v5.6 · 24/11/2026 22:50): o setor contra a inflação e o PIB, receita, margem, EBITDA, capex e arrendamento, lucro, payout, Fistel e valuation de Vivo e TIM.
